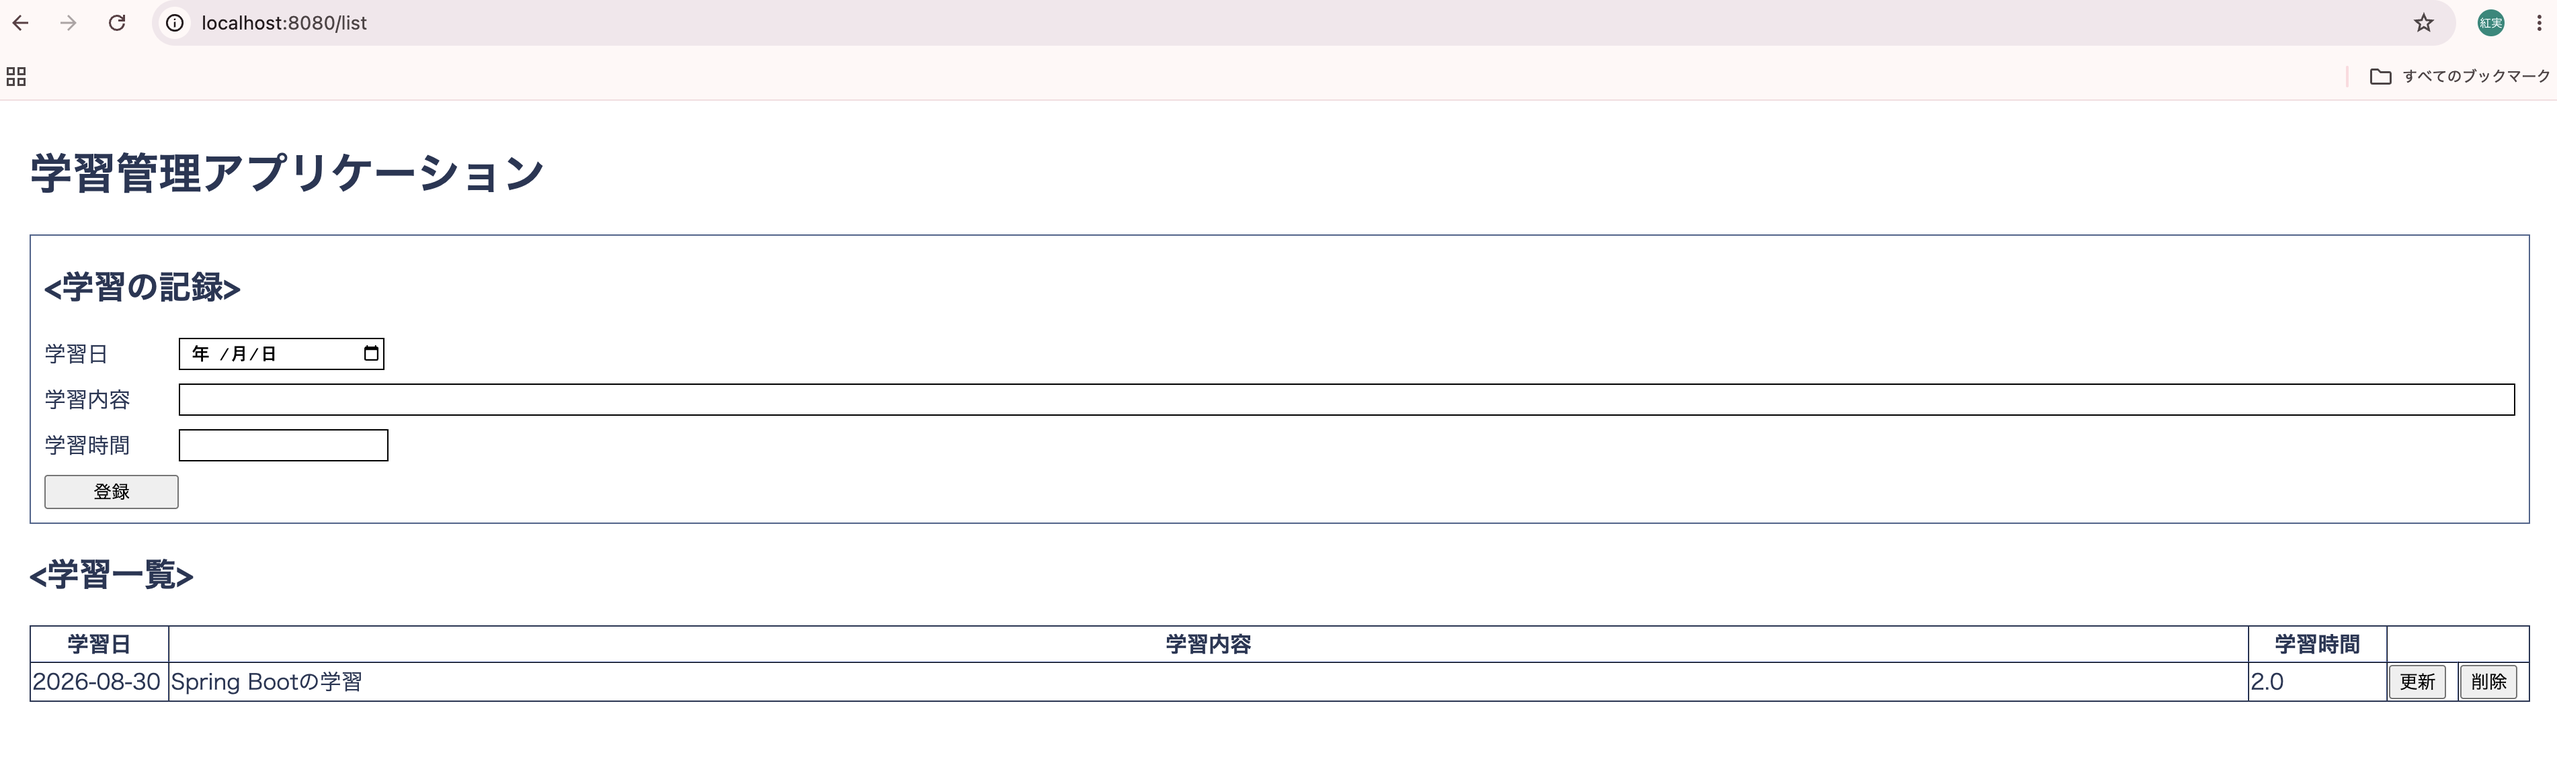
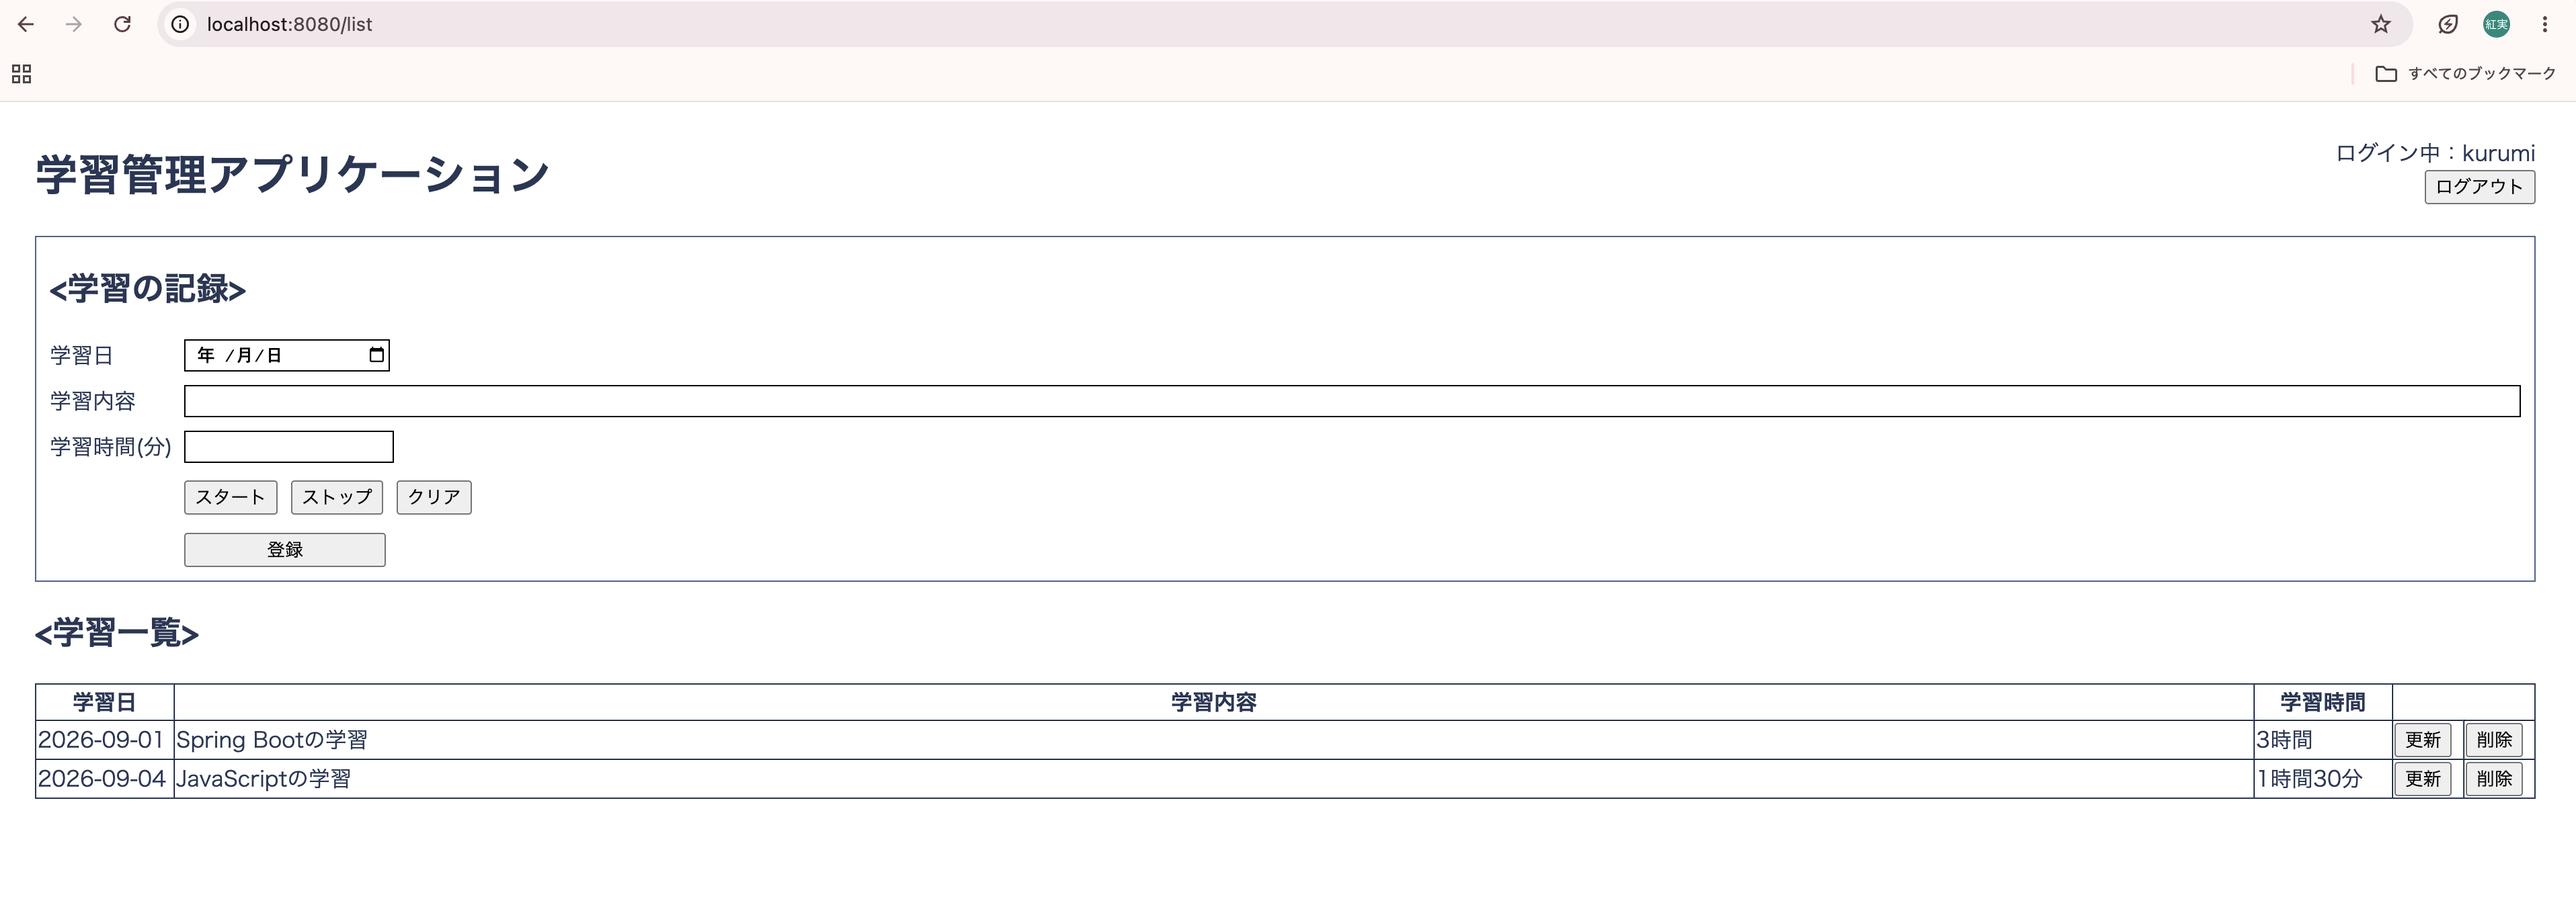
READMEを最新の機能と画面に更新

diff --git a/README.md b/README.md
@@ -8,15 +8,21 @@ Spring Bootを使用して作成した、学習記録を管理するWebアプリ
 - 学習記録の一覧表示
 - 学習記録の更新
 - 学習記録の削除
+- ユーザー登録機能
+- ログイン・ログアウト機能
+- ユーザーごとの学習記録管理
+- 学習時間のタイマー機能
 
 ## 使用技術
 
 - Java 21
 - Spring Boot
+- Spring Security
 - Thymeleaf
 - H2 Database
 - HTML
 - CSS
+- JavaScript
 - Maven
 
 ## 画面イメージ
